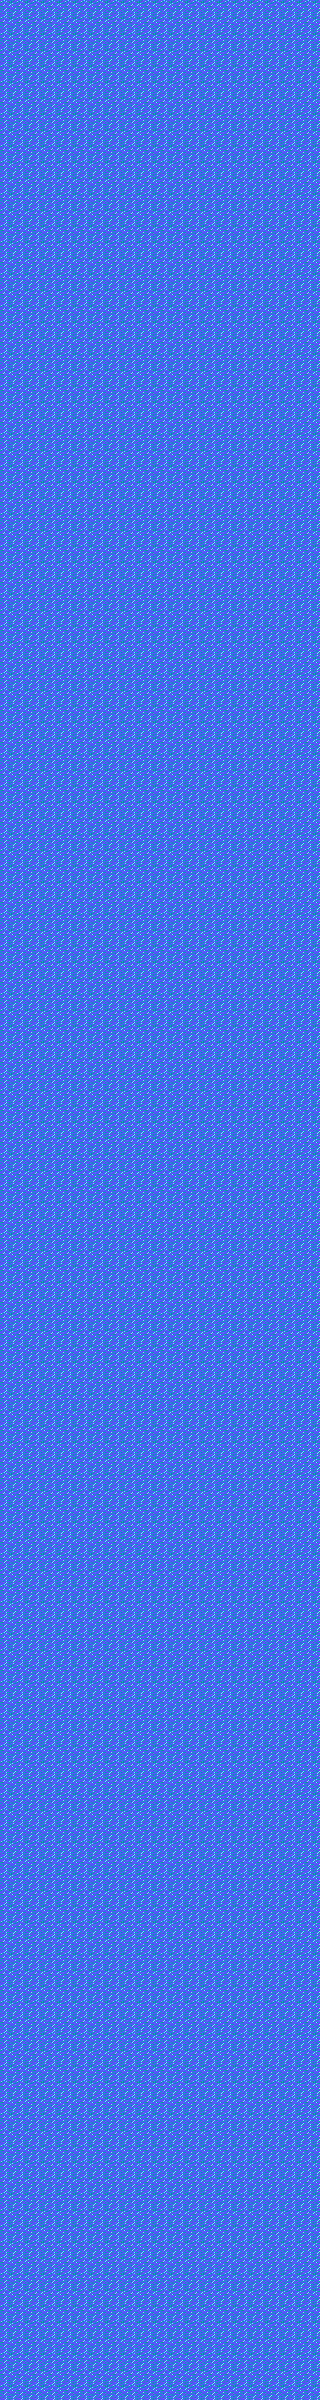
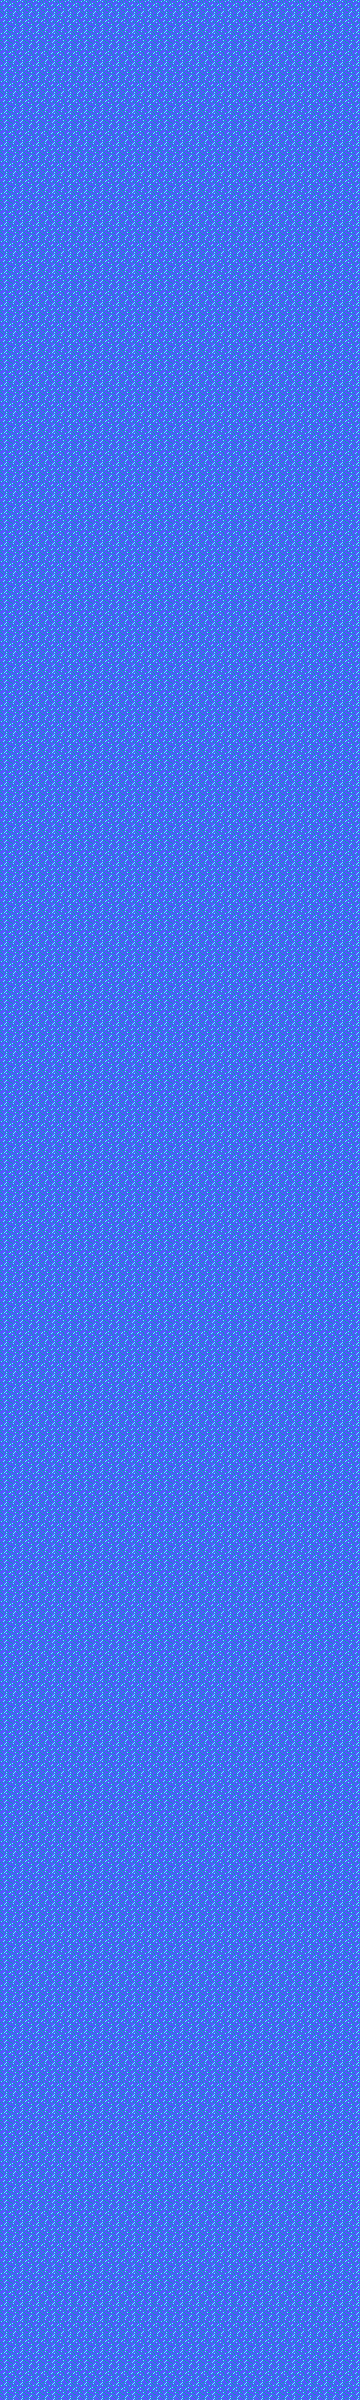
Use wider screen (360x240). Implement 'Level' class.

diff --git a/core/src/com/kdiduk/game/Game.java b/core/src/com/kdiduk/game/Game.java
@@ -11,16 +11,15 @@ import com.badlogic.gdx.utils.viewport.FitViewport;
 import com.badlogic.gdx.utils.viewport.Viewport;
 
 public class Game extends ApplicationAdapter {
-	public static final int SCREEN_WIDTH = 320;
+	public static final int SCREEN_WIDTH = 360;
 	public static final int SCREEN_HEIGHT = 240;
 
 	private Viewport viewport = null;
 	private OrthographicCamera camera = null;
 	private SpriteBatch spriteBatch;
-	private Texture background = null;
-	private Player player = null;
 	private Engine engine = null;
-	private int backgroundScrollPos = 0;
+	private Level level = null;
+	private Player player = null;
 	private int frameCounter = 0;
 	
 	@Override
@@ -29,10 +28,12 @@ public class Game extends ApplicationAdapter {
 		camera.setToOrtho(false, SCREEN_WIDTH, SCREEN_HEIGHT);
 		viewport = new FitViewport(SCREEN_WIDTH, SCREEN_HEIGHT, camera);
 		viewport.setScreenSize(SCREEN_WIDTH, SCREEN_HEIGHT);
+
 		spriteBatch = new SpriteBatch();
-		background = new Texture(Gdx.files.internal("level_01.png"));
-		player = new Player(this);
 		engine = new Engine();
+		level = new Level(this);
+		player = new Player(this);
+
 		engine.addSprite(player);
 	}
 
@@ -47,31 +48,29 @@ public class Game extends ApplicationAdapter {
 
 	@Override
 	public void render() {
-		engine.update(frameCounter);
-		if (Gdx.input.isKeyPressed(Input.Keys.ESCAPE)) {
+		if (!level.update(frameCounter) || Gdx.input.isKeyPressed(Input.Keys.ESCAPE)) {
 			Gdx.app.exit();
 			return;
 		}
-		if (frameCounter % 2 == 0) {
-			backgroundScrollPos++;
-		}
 
-		frameCounter++;
+		engine.update(frameCounter);
 		camera.update();
 
 		Gdx.gl.glClearColor(0, 0, 0, 1);
 		Gdx.gl.glClear(GL20.GL_COLOR_BUFFER_BIT);
 		spriteBatch.setProjectionMatrix(camera.combined);
 		spriteBatch.begin();
-		spriteBatch.draw(background, 0, -backgroundScrollPos);
+		level.render(spriteBatch);
 		engine.render(spriteBatch);
 		spriteBatch.end();
+
+		frameCounter++;
 	}
 
 	@Override
 	public void dispose() {
 		spriteBatch.dispose();
-		background.dispose();
+		level.dispose();
 		engine.dispose();
 	}
 }

diff --git a/core/src/com/kdiduk/game/Level.java b/core/src/com/kdiduk/game/Level.java
@@ -1,0 +1,36 @@
+package com.kdiduk.game;
+
+import com.badlogic.gdx.Gdx;
+import com.badlogic.gdx.graphics.Texture;
+import com.badlogic.gdx.graphics.g2d.SpriteBatch;
+
+public class Level {
+    protected Game game = null;
+    protected Texture texture = null;
+    protected int scroll = 0;
+
+    public Level(Game g) {
+        game = g;
+        texture = new Texture(Gdx.files.internal("level_01.png"));
+    }
+
+    public boolean update(int frames) {
+        if (frames % 2 == 0) {
+            scroll++;
+        }
+
+        if (scroll >= texture.getHeight()) {
+            return false;
+        }
+
+        return true;
+    }
+
+    public void render(SpriteBatch batch) {
+        batch.draw(texture, 0, -scroll);
+    }
+
+    public void dispose() {
+        texture.dispose();
+    }
+}

diff --git a/core/src/com/kdiduk/game/Player.java b/core/src/com/kdiduk/game/Player.java
@@ -15,8 +15,8 @@ public class Player implements Sprite {
 	protected Integer posY = 0;
 	protected Integer reloading = 0;
 
-	public Player(Game game) {
-		this.game = game;
+	public Player(Game g) {
+		game = g;
 		texture = new Texture(Gdx.files.internal("yak_main.png"));
 		posX = (Game.SCREEN_WIDTH - texture.getWidth()) / 2;
 		posY = (Game.SCREEN_HEIGHT - texture.getHeight()) / 2;

diff --git a/desktop/src/com/kdiduk/game/desktop/DesktopLauncher.java b/desktop/src/com/kdiduk/game/desktop/DesktopLauncher.java
@@ -6,7 +6,7 @@ import com.kdiduk.game.Game;
 
 public class DesktopLauncher {
     public static final String GAME_TITLE = "Yak Fighter!";
-    public static final int GAME_WIDTH = 960;
+    public static final int GAME_WIDTH = 1080;
     public static final int GAME_HEIGHT = 720;
 
 	public static void main (String[] arg) {
